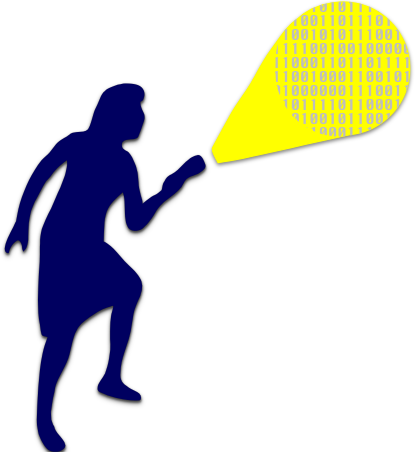
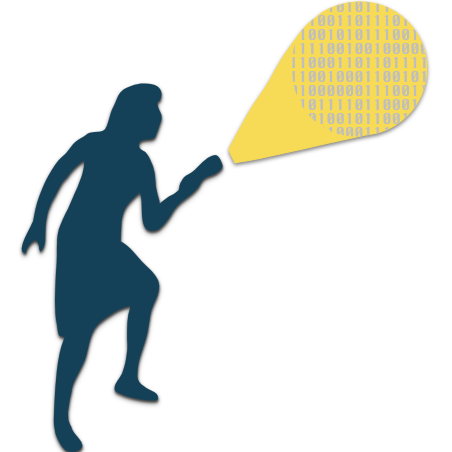
more subtle blue

Changed region(s): [[0.0, 0.0, 1.0, 1.0]]

diff --git a/assets/style.css b/assets/style.css
@@ -14,7 +14,7 @@ body {
   font-family: 'Roboto Mono', monospace;
   font-size: 14px;
   background-color: #ffffdd;
-  color: #000040;
+  color: #154158;
 }
 
 h1 {
@@ -78,7 +78,7 @@ section.about {
 }
 
 footer {
-  background-color: #000060;
+  background-color: #154158;
   display: flex;
   align-items: center;
   justify-content: space-around;
